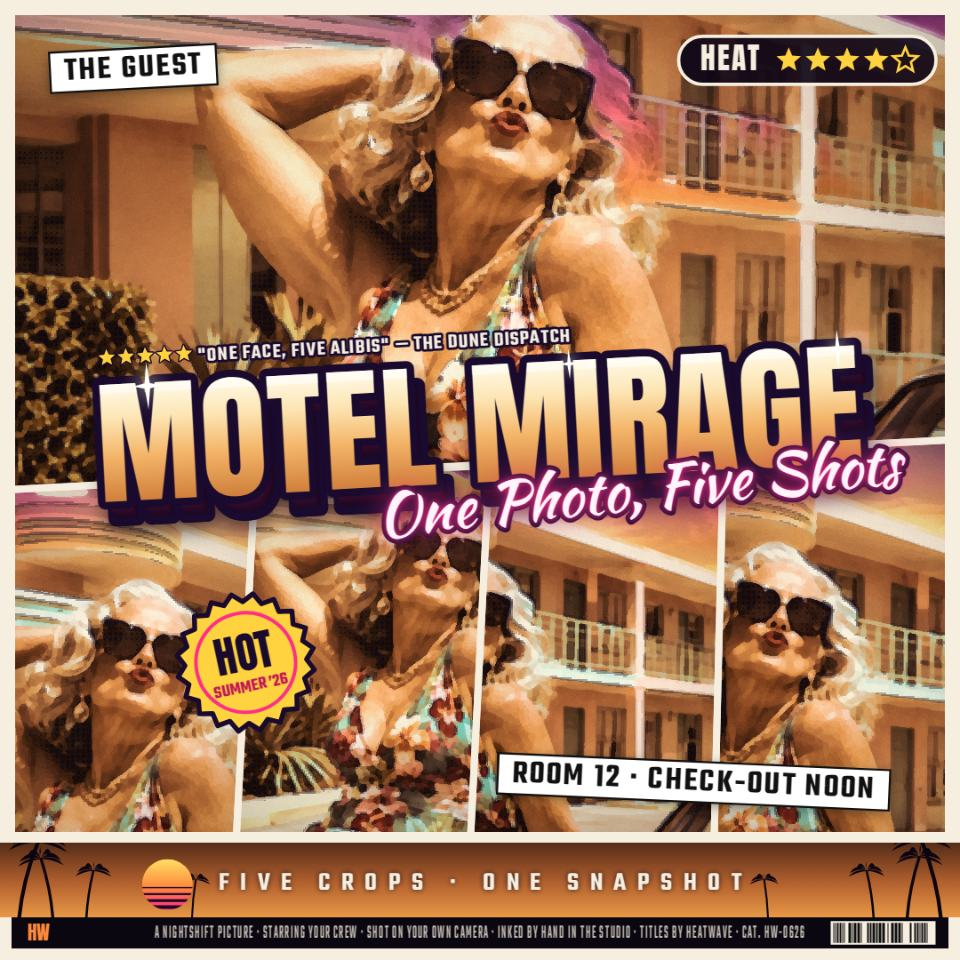
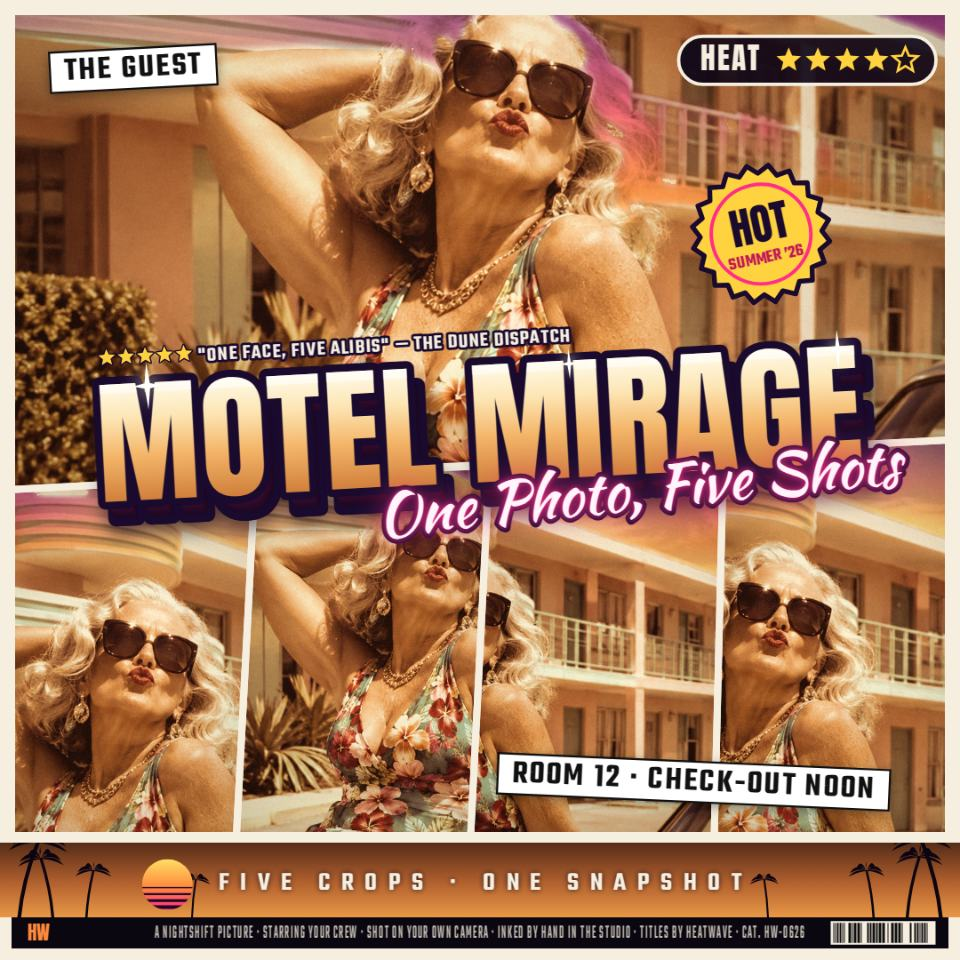
Step 1 (M10): clean shots 3 and 4 - Poster Ink off in the cover-tall and cover-one scenes (ink: 0, clean photographic grade like shot 1, no halftone blotches); keyArtSlash tall tag THE NIGHT MANAGER moved off the pool face onto the motel panel's dark sky [5, 0.675, 0.815]; keyArtSlash square seal mo

diff --git a/app/src/dev/shot-scenes.js b/app/src/dev/shot-scenes.js
@@ -28,7 +28,7 @@ const SCENES = {
   // Shot 3: 1080 x 1350, Key Art Slash in Neon Night: the couple on the pier as the hero, the fisher and the neon man
   // as the two faces in the middle row, the marina skyline, the neon pool and the rainy motel along the bottom.
   'cover-tall': {
-    layoutId: 'keyArtSlash', gradeId: 'neonNight', size: [1080, 1350],
+    layoutId: 'keyArtSlash', gradeId: 'neonNight', size: [1080, 1350], ink: 0, // M10: Poster Ink off, clean photos like shot 1
     caption: {
       title: 'SALT & SIRENS', subtitle: 'Harbor Run', tagline: 'ONE NIGHT ON THE WATERFRONT',
       quote: '"LOUD, SALTY AND GORGEOUS" — BAYSIDE BEAT', tags: ['THE SWEETHEARTS', 'DOCK NINE · 2 AM', 'THE NIGHT MANAGER'],
@@ -42,7 +42,7 @@ const SCENES = {
   // Shot 4: 1080 x 1080 from ONE photo: Key Art Slash's hero and four slanted panels, each its own crop of the same
   // face photo (full figure, face close-up, hands, the sign behind), in warm Golden Hour.
   'cover-one': {
-    layoutId: 'keyArtSlash', gradeId: 'goldenHour', size: [1080, 1080],
+    layoutId: 'keyArtSlash', gradeId: 'goldenHour', size: [1080, 1080], ink: 0, // M10: Poster Ink off, clean photos like shot 1
     caption: {
       title: 'MOTEL MIRAGE', subtitle: 'One Photo, Five Shots', tagline: 'FIVE CROPS · ONE SNAPSHOT',
       quote: '"ONE FACE, FIVE ALIBIS" — THE DUNE DISPATCH', tags: ['THE GUEST', 'ROOM 12 · CHECK-OUT NOON', 'THE REGULAR'],

diff --git a/app/src/engine/layouts.js b/app/src/engine/layouts.js
@@ -32,7 +32,7 @@ export const LAYOUTS = {
         [[0.76, 0.534], [1, 0.52], [1, 1], [0.75, 1]],
       ],
       title: { cx: 0.5, cy: 0.5, w: 0.8, tilt: -3 },
-      seal: [0.25, 0.79], pill: [0.975, 0.03, 'right'],
+      seal: [0.8, 0.27], pill: [0.975, 0.03, 'right'],
       tags: [[0, 0.04, 0.05, -3], [3, 0.52, 0.9, 2.5]],
     },
     tall: {
@@ -46,7 +46,7 @@ export const LAYOUTS = {
       ],
       title: { cx: 0.5, cy: 0.47, w: 0.86, tilt: -3 },
       seal: [0.35, 0.89], pill: [0.97, 0.025, 'right'],
-      tags: [[0, 0.04, 0.04, -3], [2, 0.6, 0.705, 2.5], [4, 0.38, 0.8, -2]],
+      tags: [[0, 0.04, 0.04, -3], [2, 0.6, 0.705, 2.5], [5, 0.675, 0.815, -2]],
     },
   },
   keyArtNine: {
